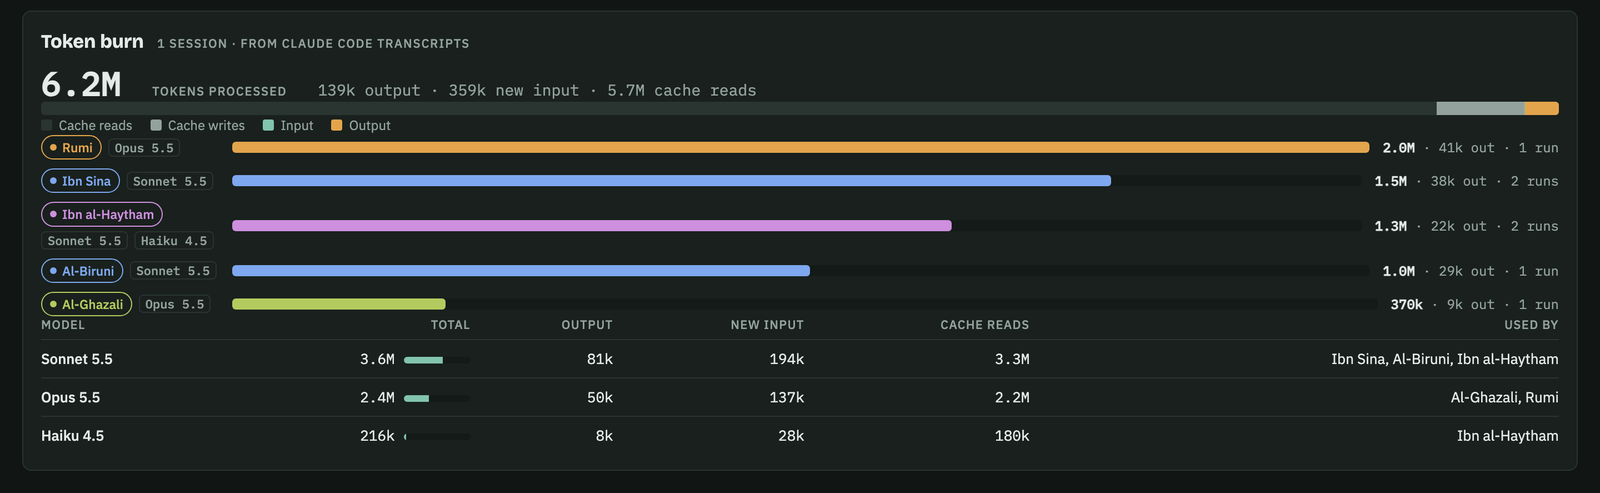
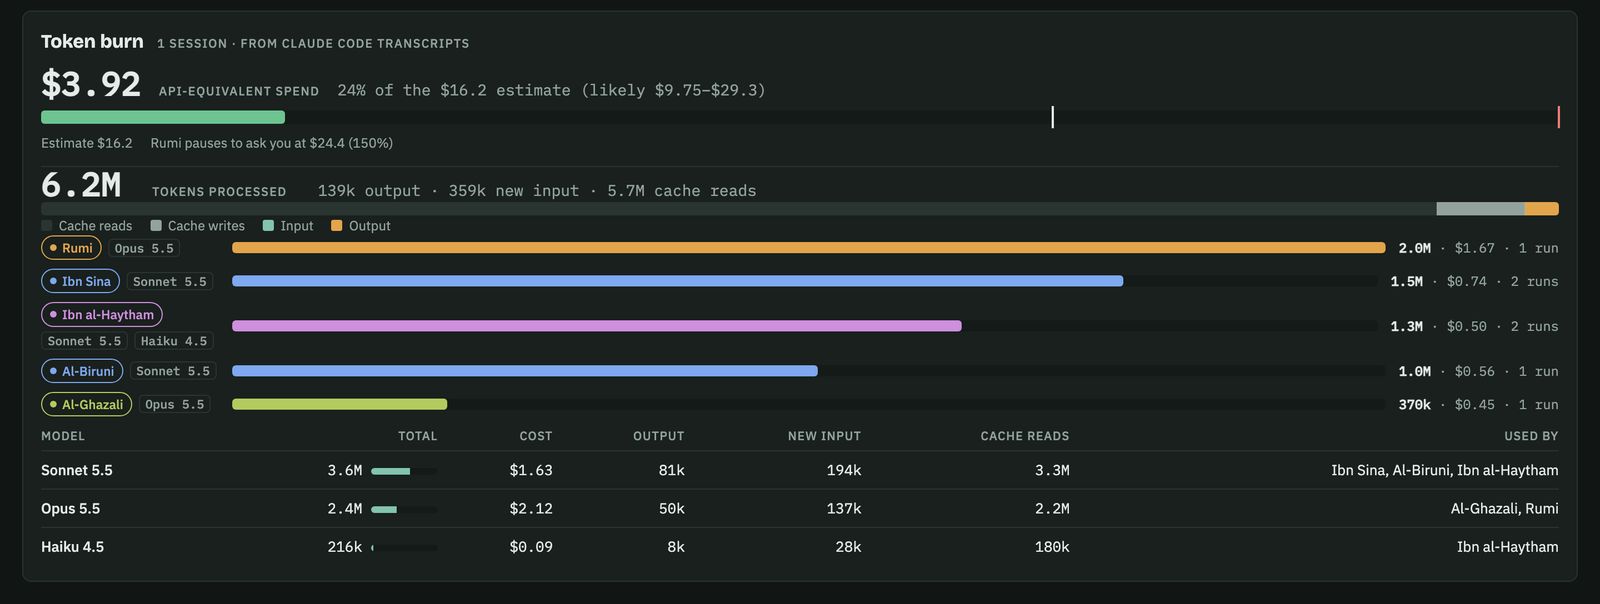
Docs: cost estimate and spend in README, screenshots and descriptions
Refreshes the brief and token screenshots to show the cost estimate and
spend against estimate, describes both in the README's board tour, and
updates the plugin and marketplace descriptions to cover the analyst,
cost sign-off and spend tracking.

diff --git a/README.md b/README.md
@@ -80,7 +80,7 @@ You don't need to know how to code.
 
 ### Your board shows
 
-**Brief and definition of done.** Your request, Rumi's understanding of it, how it will be built, the checklist you sign off, and the business analyst's findings. *(Shown at the top of this page.)*
+**Brief and definition of done.** Your request, Rumi's understanding of it, how it will be built and by which models, **the estimated cost**, the checklist you sign off, and the business analyst's findings. *(Shown at the top of this page.)*
 
 **Needs you.** Questions and approvals waiting for you. Answer with one click.
 
@@ -102,7 +102,7 @@ You don't need to know how to code.
 
 ![The tool call audit log](docs/images/audit.png)
 
-**Token burn.** How much Claude usage each agent and each model used.
+**Token burn and cost.** What's been spent so far against the estimate, with the point where the team pauses to ask you, plus tokens and cost for each agent and each model.
 
 ![Token use per agent and per model](docs/images/burn.png)
 
